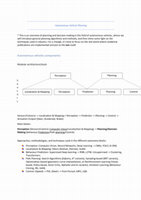
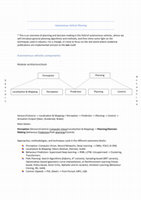
Adjust tables in pages 1 & 6

diff --git a/docs/6.html b/docs/6.html
@@ -54,31 +54,31 @@
 #ti_6{left:138px;bottom:844px;}
 #tj_6{left:165px;bottom:844px;letter-spacing:-0.08px;}
 #tk_6{left:165px;bottom:822px;letter-spacing:-0.07px;word-spacing:0.05px;}
-#tl_6{left:118px;bottom:753px;letter-spacing:-0.05px;}
-#tm_6{left:489px;bottom:753px;letter-spacing:-0.06px;}
-#tn_6{left:118px;bottom:718px;letter-spacing:-0.05px;}
-#to_6{left:344px;bottom:718px;letter-spacing:-0.07px;}
-#tp_6{left:489px;bottom:718px;letter-spacing:-0.07px;word-spacing:0.02px;}
-#tq_6{left:834px;bottom:718px;letter-spacing:-0.06px;}
-#tr_6{left:834px;bottom:697px;letter-spacing:-0.08px;}
-#ts_6{left:118px;bottom:647px;letter-spacing:-0.06px;}
-#tt_6{left:187px;bottom:647px;letter-spacing:-0.1px;}
-#tu_6{left:221px;bottom:647px;letter-spacing:0.02px;}
-#tv_6{left:221px;bottom:626px;letter-spacing:-0.02px;}
-#tw_6{left:263px;bottom:647px;letter-spacing:-0.06px;}
-#tx_6{left:308px;bottom:647px;letter-spacing:0.03px;}
-#ty_6{left:344px;bottom:647px;letter-spacing:-0.04px;}
-#tz_6{left:388px;bottom:647px;letter-spacing:-0.04px;}
-#t10_6{left:440px;bottom:647px;letter-spacing:-0.03px;}
-#t11_6{left:489px;bottom:647px;letter-spacing:-0.05px;}
-#t12_6{left:489px;bottom:626px;}
-#t13_6{left:489px;bottom:606px;letter-spacing:-0.05px;}
-#t14_6{left:489px;bottom:585px;letter-spacing:-0.04px;}
-#t15_6{left:550px;bottom:647px;letter-spacing:-0.06px;}
-#t16_6{left:643px;bottom:647px;letter-spacing:-0.09px;}
-#t17_6{left:700px;bottom:647px;letter-spacing:-0.06px;}
-#t18_6{left:759px;bottom:647px;letter-spacing:-0.06px;}
-#t19_6{left:834px;bottom:647px;letter-spacing:-0.08px;word-spacing:0.02px;}
+#tl_6{left:41px;bottom:753px;letter-spacing:-0.05px;}
+#tm_6{left:411px;bottom:753px;letter-spacing:-0.06px;}
+#tn_6{left:41px;bottom:718px;letter-spacing:-0.05px;}
+#to_6{left:266px;bottom:718px;letter-spacing:-0.07px;}
+#tp_6{left:411px;bottom:718px;letter-spacing:-0.07px;word-spacing:0.02px;}
+#tq_6{left:756px;bottom:718px;letter-spacing:-0.06px;}
+#tr_6{left:756px;bottom:697px;letter-spacing:-0.06px;}
+#ts_6{left:41px;bottom:647px;letter-spacing:-0.06px;}
+#tt_6{left:109px;bottom:647px;letter-spacing:-0.1px;}
+#tu_6{left:144px;bottom:647px;letter-spacing:0.02px;}
+#tv_6{left:144px;bottom:626px;letter-spacing:-0.02px;}
+#tw_6{left:185px;bottom:647px;letter-spacing:-0.06px;}
+#tx_6{left:230px;bottom:647px;letter-spacing:0.03px;}
+#ty_6{left:266px;bottom:647px;letter-spacing:-0.04px;}
+#tz_6{left:310px;bottom:647px;letter-spacing:-0.04px;}
+#t10_6{left:362px;bottom:647px;letter-spacing:-0.03px;}
+#t11_6{left:411px;bottom:647px;letter-spacing:-0.05px;}
+#t12_6{left:411px;bottom:626px;}
+#t13_6{left:411px;bottom:606px;letter-spacing:-0.05px;}
+#t14_6{left:411px;bottom:585px;letter-spacing:-0.04px;}
+#t15_6{left:472px;bottom:647px;letter-spacing:-0.06px;}
+#t16_6{left:565px;bottom:647px;letter-spacing:-0.09px;}
+#t17_6{left:623px;bottom:647px;letter-spacing:-0.06px;}
+#t18_6{left:682px;bottom:647px;letter-spacing:-0.06px;}
+#t19_6{left:756px;bottom:647px;letter-spacing:-0.08px;word-spacing:0.02px;}
 #t1a_6{left:110px;bottom:495px;letter-spacing:-0.08px;word-spacing:0.02px;}
 #t1b_6{left:110px;bottom:461px;letter-spacing:-0.08px;word-spacing:0.02px;}
 #t1c_6{left:110px;bottom:439px;letter-spacing:-0.08px;word-spacing:0.05px;}
@@ -137,14 +137,14 @@
 <span id="tk_6" class="t s0_6">Function optimisation </span>
 <span id="tl_6" class="t s0_6">Search </span><span id="tm_6" class="t s0_6">Optimisation </span>
 <span id="tn_6" class="t s0_6">Search </span><span id="to_6" class="t s0_6">Sampling </span><span id="tp_6" class="t s0_6">Interpolation Curve </span><span id="tq_6" class="t s0_6">Numerical </span>
-<span id="tr_6" class="t s0_6">Optimisatio </span>
+<span id="tr_6" class="t s0_6">Optimisation </span>
 <span id="ts_6" class="t s0_6">Dijkstra </span><span id="tt_6" class="t s0_6">A* </span><span id="tu_6" class="t s0_6">D* </span>
 <span id="tv_6" class="t s0_6">Lite </span>
 <span id="tw_6" class="t s0_6">AD* </span><span id="tx_6" class="t s0_6">DP </span><span id="ty_6" class="t s0_6">RRT </span><span id="tz_6" class="t s0_6">RRT* </span><span id="t10_6" class="t s0_6">PRM </span><span id="t11_6" class="t s0_6">Lines </span>
 <span id="t12_6" class="t s0_6">&amp; </span>
 <span id="t13_6" class="t s0_6">Circles </span>
 <span id="t14_6" class="t s0_6">(RS) </span>
-<span id="t15_6" class="t s0_6">Polynomial </span><span id="t16_6" class="t s0_6">Spline </span><span id="t17_6" class="t s0_6">Bezier </span><span id="t18_6" class="t s0_6">Clothoid </span><span id="t19_6" class="t s0_6">QP, iLQR, M </span>
+<span id="t15_6" class="t s0_6">Polynomial </span><span id="t16_6" class="t s0_6">Spline </span><span id="t17_6" class="t s0_6">Bezier </span><span id="t18_6" class="t s0_6">Clothoid </span><span id="t19_6" class="t s0_6">QP, iLQR, MPC </span>
 <span id="t1a_6" class="t s0_6">Trajectories can be generated in the state space or in the control space. </span>
 <span id="t1b_6" class="t s0_6">Forward kinematics - the initial state of the robot and control input are given, and the final state can </span>
 <span id="t1c_6" class="t s0_6">be obtained through integrating the control input. </span>

diff --git a/docs/1.html b/docs/1.html
@@ -63,20 +63,29 @@
 #tr_1{left:165px;bottom:214px;letter-spacing:-0.08px;word-spacing:0.02px;}
 #ts_1{left:165px;bottom:193px;letter-spacing:-0.07px;word-spacing:0.02px;}
 #tt_1{left:165px;bottom:173px;letter-spacing:-0.07px;word-spacing:-0.03px;}
-#tu_1{left:350px;bottom:787px;letter-spacing:-0.06px;}
-#tv_1{left:689px;bottom:788px;letter-spacing:-0.08px;}
-#tw_1{left:375px;bottom:683px;letter-spacing:-0.06px;}
-#tx_1{left:681px;bottom:684px;letter-spacing:-0.08px;}
-#ty_1{left:157px;bottom:683px;letter-spacing:-0.07px;word-spacing:-0.06px;}
-#tz_1{left:833px;bottom:684px;letter-spacing:-0.06px;}
-#t10_1{left:529px;bottom:684px;letter-spacing:-0.06px;}
-#t11_1{left:107px;bottom:755px;}
-#t12_1{left:107px;bottom:733px;}
-#t13_1{left:107px;bottom:711px;}
-#t14_1{left:107px;bottom:689px;}
-#t15_1{left:107px;bottom:667px;}
-#t16_1{left:107px;bottom:645px;}
-#t17_1{left:107px;bottom:623px;}
+#tu_1{left:272px;bottom:787px;letter-spacing:-0.04px;}
+#tv_1{left:612px;bottom:789px;letter-spacing:-0.08px;}
+#tw_1{left:297px;bottom:684px;letter-spacing:-0.06px;}
+#tx_1{left:603px;bottom:684px;letter-spacing:-0.08px;}
+#ty_1{left:79px;bottom:684px;letter-spacing:-0.05px;word-spacing:-0.08px;}
+#tz_1{left:755px;bottom:684px;letter-spacing:-0.06px;}
+#t10_1{left:451px;bottom:684px;letter-spacing:-0.06px;}
+#t11_1{left:29px;bottom:756px;}
+#t12_1{left:29px;bottom:734px;}
+#t13_1{left:29px;bottom:712px;}
+#t14_1{left:29px;bottom:690px;}
+#t15_1{left:29px;bottom:668px;}
+#t16_1{left:29px;bottom:645px;}
+#t17_1{left:29px;bottom:623px;}
+#t18_1{left:875px;bottom:780px;}
+#t19_1{left:875px;bottom:758px;}
+#t1a_1{left:875px;bottom:736px;}
+#t1b_1{left:875px;bottom:713px;}
+#t1c_1{left:875px;bottom:691px;}
+#t1d_1{left:875px;bottom:669px;}
+#t1e_1{left:875px;bottom:647px;}
+#t1f_1{left:875px;bottom:625px;}
+#t1g_1{left:875px;bottom:603px;}
 
 .s0_1{font-size:17px;font-family:Calibri-Italic_u2;color:#4472C4;}
 .s1_1{font-size:17px;font-family:Calibri_u7;color:#000;}
@@ -141,7 +150,8 @@
 <span id="tr_1" class="t s1_1">based, Policy-based, Actor-Critic, AlphaGo and its variants), Imitation Learning (Behaviour </span>
 <span id="ts_1" class="t s1_1">Cloning, IRL, GAN). </span>
 <span id="tt_1" class="t s1_1">Control: (Speed) -&gt; PID, (Steer) -&gt; Pure-Pursuit, MPC, LQR. </span>
-<span id="tu_1" class="t s1_1">Perception </span><span id="tv_1" class="t s1_1">Planning </span>
+<span id="tu_1" class="t s1_1">Perception </span>
+<span id="tv_1" class="t s1_1">Planning </span>
 <span id="tw_1" class="t s1_1">Perception </span><span id="tx_1" class="t s1_1">Planning </span><span id="ty_1" class="t s1_1">Localisation &amp; Mapping </span><span id="tz_1" class="t s1_1">Control </span><span id="t10_1" class="t s1_1">Prediction </span>
 <span id="t11_1" class="t s1_1">S </span>
 <span id="t12_1" class="t s1_1">e </span>
@@ -149,7 +159,16 @@
 <span id="t14_1" class="t s1_1">s </span>
 <span id="t15_1" class="t s1_1">o </span>
 <span id="t16_1" class="t s1_1">r </span>
-<span id="t17_1" class="t s1_1">s </span></div>
+<span id="t17_1" class="t s1_1">s </span>
+<span id="t18_1" class="t s1_1">A </span>
+<span id="t19_1" class="t s1_1">c </span>
+<span id="t1a_1" class="t s1_1">t </span>
+<span id="t1b_1" class="t s1_1">u </span>
+<span id="t1c_1" class="t s1_1">a </span>
+<span id="t1d_1" class="t s1_1">t </span>
+<span id="t1e_1" class="t s1_1">i </span>
+<span id="t1f_1" class="t s1_1">o </span>
+<span id="t1g_1" class="t s1_1">n </span></div>
 <!-- End text definitions -->
 
 

diff --git a/docs/config.js b/docs/config.js
@@ -1,1 +1,1 @@
-IDRViewer.config = {"pagecount":27,"title":"","author":"Yusuf","subject":"","keywords":"","creator":"Microsoft® Word for Microsoft 365","producer":"Microsoft® Word for Microsoft 365","creationdate":"D:20240127030237+00'00'","moddate":"D:20240127030237+00'00'","trapped":"","fileName":"Autonomous_Vehicle_Technology___Discussion___Planning_Decision_Making_V2.pdf","bounds":[[909,1286],[909,1286],[909,1286],[909,1286],[909,1286],[909,1286],[909,1286],[909,1286],[909,1286],[909,1286],[909,1286],[909,1286],[909,1286],[909,1286],[909,1286],[909,1286],[909,1286],[909,1286],[909,1286],[909,1286],[909,1286],[909,1286],[909,1286],[909,1286],[909,1286],[909,1286],[909,1286]],"bookmarks":[],"thumbnailType":"jpg","pageType":"html","pageLabels":[]};
+IDRViewer.config = {"pagecount":27,"title":"","author":"Yusuf","subject":"","keywords":"","creator":"Microsoft® Word for Microsoft 365","producer":"Microsoft® Word for Microsoft 365","creationdate":"D:20240127040447+00'00'","moddate":"D:20240127040447+00'00'","trapped":"","fileName":"Autonomous_Vehicle_Technology___Discussion___Planning_Decision_Making_V2.pdf","bounds":[[909,1286],[909,1286],[909,1286],[909,1286],[909,1286],[909,1286],[909,1286],[909,1286],[909,1286],[909,1286],[909,1286],[909,1286],[909,1286],[909,1286],[909,1286],[909,1286],[909,1286],[909,1286],[909,1286],[909,1286],[909,1286],[909,1286],[909,1286],[909,1286],[909,1286],[909,1286],[909,1286]],"bookmarks":[],"thumbnailType":"jpg","pageType":"html","pageLabels":[]};
